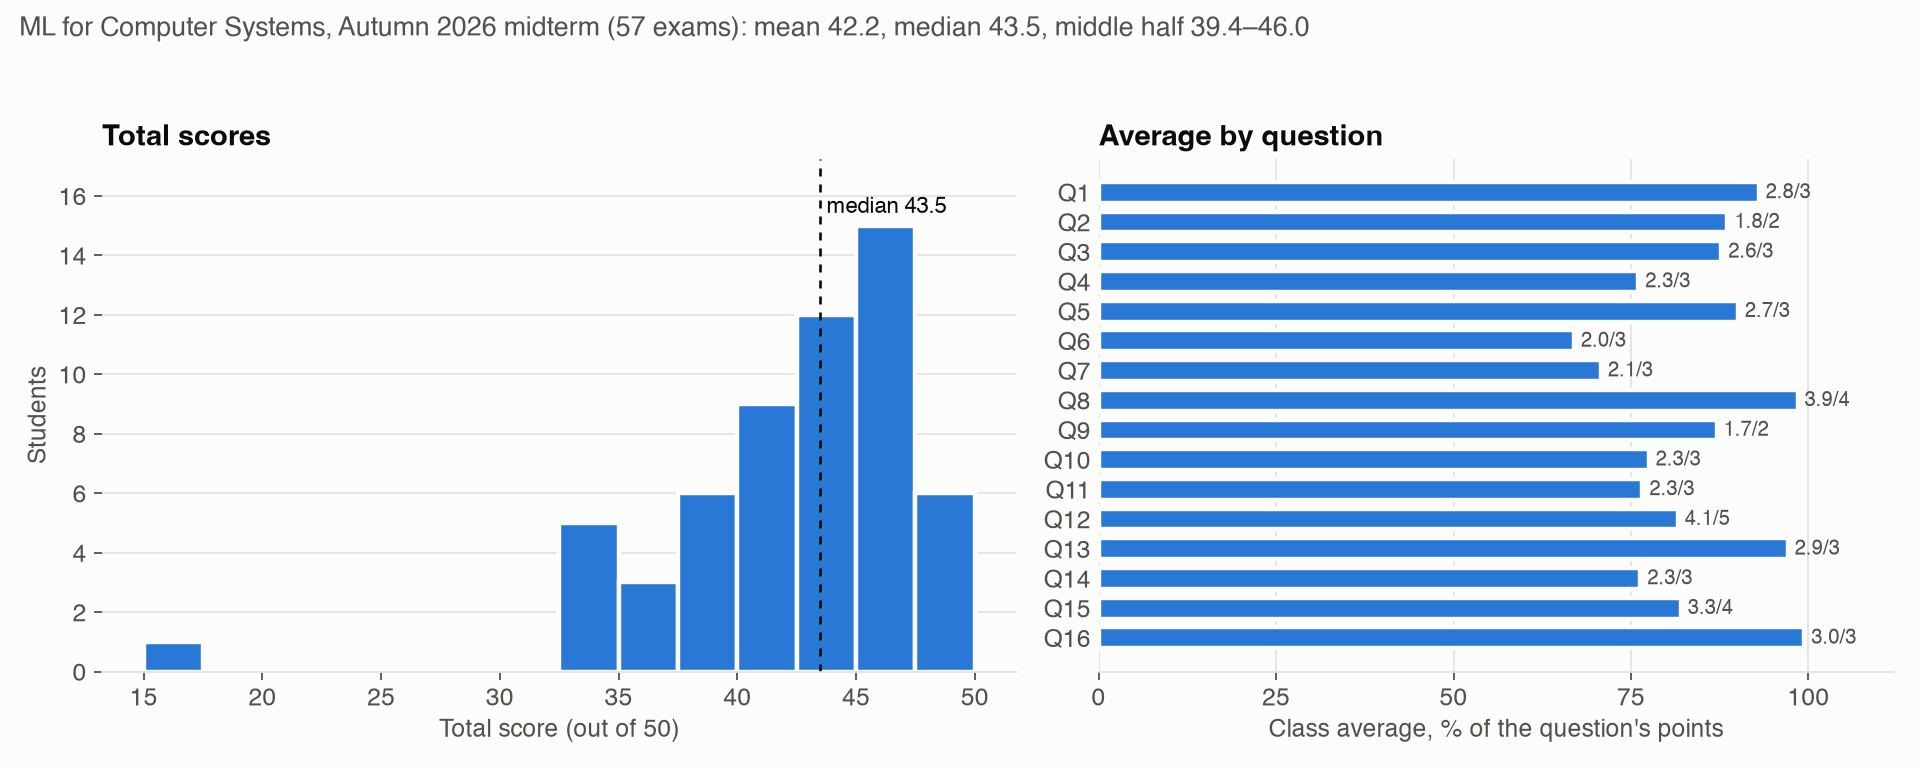
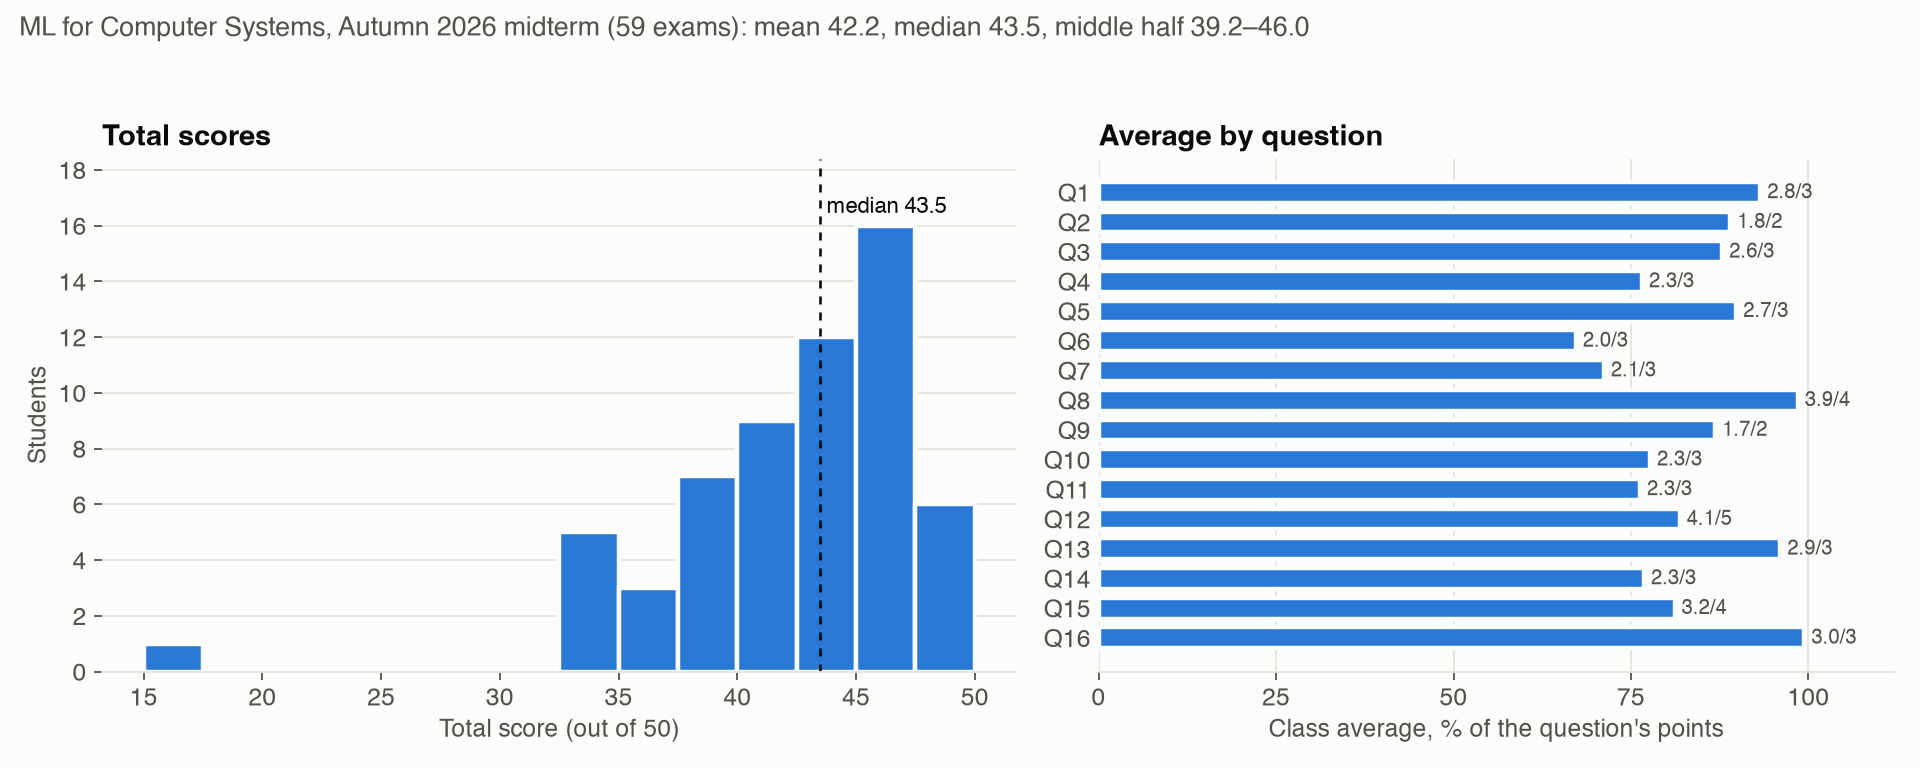
Midterm 2026: score chart and item analysis with the two late exams (59)

diff --git a/docs/midterm/2026/analysis.md b/docs/midterm/2026/analysis.md
@@ -1,27 +1,27 @@
 # ML for Systems Midterm, Autumn 2026: where the class splits from the key
 
-Exams: 57. Flags appear once there are at least 5. A flagged part may be an ambiguous question: read the answers (review.html, `gradescope themes`) and give full credit for the reasonable reading.
+Exams: 59. Flags appear once there are at least 5. A flagged part may be an ambiguous question: read the answers (review.html, `gradescope themes`) and give full credit for the reasonable reading.
 
 | part | kind | mean / max | read | flags |
 |---|---|---|---|---|
-| 1 | choice | 2.79 / 3 | marked: A* 100%, B 4%, C* 100%, D 7%, E* 100%, F 11%  (* = key) |  |
-| 2 | choice | 1.77 / 2 | marked: A* 98%, B 5%, C* 96%, D 2%, E* 82%, F 2%  (* = key) |  |
-| 3 | free | 2.63 / 3 | mean 2.63 / 3 |  |
+| 1 | choice | 2.8 / 3 | marked: A* 100%, B 3%, C* 100%, D 7%, E* 100%, F 10%  (* = key) |  |
+| 2 | choice | 1.78 / 2 | marked: A* 98%, B 5%, C* 97%, D 2%, E* 83%, F 2%  (* = key) |  |
+| 3 | free | 2.64 / 3 | mean 2.64 / 3 |  |
 | 4a | yes_no | 0.95 / 1 | 95% answered 'no' (the key) |  |
-| 4b | free | 1.33 / 2 | mean 1.33 / 2 |  |
-| 5 | choice | 2.7 / 3 | marked: A* 100%, B 5%, C* 95%, D 2%, E* 82%, F 4%  (* = key) |  |
+| 4b | free | 1.35 / 2 | mean 1.35 / 2 |  |
+| 5 | choice | 2.69 / 3 | marked: A* 100%, B 5%, C* 93%, D 2%, E* 83%, F 3%  (* = key) |  |
 | 6a | yes_no | 1.0 / 1 | 100% answered 'no' (the key) |  |
-| 6b | free | 1.01 / 2 | mean 1.01 / 2 |  |
-| 7 | free | 2.12 / 3 | mean 2.12 / 3 |  |
+| 6b | free | 1.02 / 2 | mean 1.02 / 2 |  |
+| 7 | free | 2.14 / 3 | mean 2.14 / 3 |  |
 | 8 | free | 3.94 / 4 | mean 3.94 / 4 |  |
-| 9 | choice | 1.74 / 2 | marked: A* 91%, B 5%, C* 93%, D 9%, E* 93%, F 4%  (* = key) |  |
-| 10 | free | 2.32 / 3 | mean 2.32 / 3 |  |
+| 9 | choice | 1.74 / 2 | marked: A* 92%, B 5%, C* 93%, D 10%, E* 93%, F 3%  (* = key) |  |
+| 10 | free | 2.33 / 3 | mean 2.33 / 3 |  |
 | 11a | yes_no | 0.95 / 1 | 95% answered 'no' (the key) |  |
-| 11b | free | 1.35 / 2 | mean 1.35 / 2 |  |
-| 12 | free | 4.08 / 5 | mean 4.08 / 5 |  |
-| 13 | free | 2.91 / 3 | mean 2.91 / 3 |  |
-| 14 | free | 2.29 / 3 | mean 2.29 / 3 |  |
-| 15 | free | 3.28 / 4 | mean 3.28 / 4 |  |
+| 11b | free | 1.34 / 2 | mean 1.34 / 2 |  |
+| 12 | free | 4.09 / 5 | mean 4.09 / 5 |  |
+| 13 | free | 2.88 / 3 | mean 2.88 / 3 |  |
+| 14 | free | 2.31 / 3 | mean 2.31 / 3 |  |
+| 15 | free | 3.25 / 4 | mean 3.25 / 4 |  |
 | 16a | short | 0.48 / 0.5 | mean 0.48 / 0.5 |  |
 | 16b | short | 0.5 / 0.5 | mean 0.5 / 0.5 |  |
 | 16c | free | 2.0 / 2 | mean 2.0 / 2 |  |
